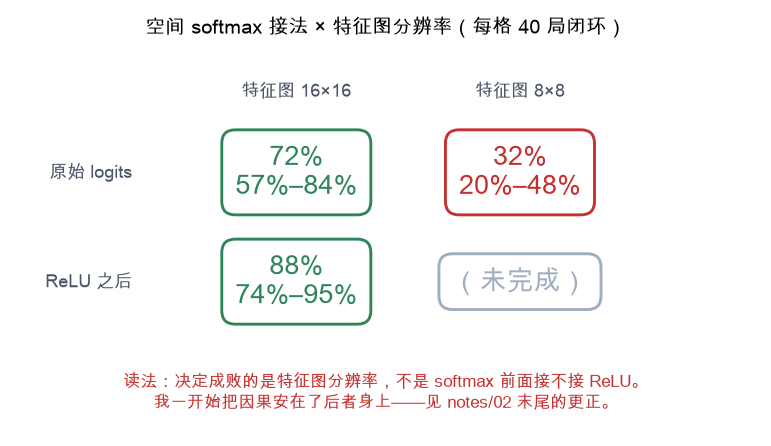
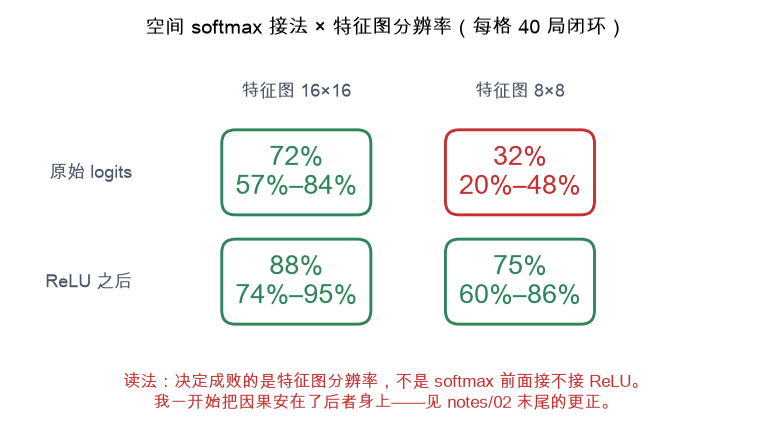
Second correction: sharper spatial softmax is worse; proxy metrics predicted nothing

Changed region(s): [[0.5603, 0.5247, 0.8093, 0.7287]]

diff --git a/notes/02-闭环失败诊断.md b/notes/02-闭环失败诊断.md
@@ -189,3 +189,59 @@ ReLU 之后特征均值只有 0.004，把这么小的数当 logits 做 256 类 s
   这个习惯是对的，只是量出来之后要接一个对照实验，而不是接一个结论。
 
 原来那节的文字保留在上面，不删——**记录当时怎么想的，比记录一个正确结论更有用。**
+
+## 2×2 跑完：第二次更正，而且更值得记
+
+四格全部跑完（其余配置完全相同，16000 步，40 局，同一套种子）：
+
+| | 特征图 16×16 | 特征图 8×8 |
+|---|---|---|
+| **原始 logits + 可学温度**（我的"修复版"） | 72.5% | **32.5%** |
+| **ReLU 之后**（第一版写法） | **87.5%** | **75.0%** |
+
+**我的"修复"不但没用，而且有害，在低分辨率下害得尤其厉害。**
+
+配上视觉健康指标看，规律非常清楚：
+
+| 配置 | softmax 最大概率 ÷ 均匀 | 关键点 std | 验证 L1 | 闭环成功率 |
+|---|---|---|---|---|
+| ReLU 后 + 16×16 | **1.2×** | 0.135 | 0.0949 | **87.5%** |
+| ReLU 后 + 8×8 | **1.4×** | 0.133 | 0.0946 | **75.0%** |
+| 原始 logits + 16×16 | （未记录） | — | 0.0925 | 72.5% |
+| 原始 logits + 8×8 | **59.4×** | 0.196 | 0.0974 | **32.5%** |
+
+**越尖锐，成功率越低。** 最尖的那个（59 倍于均匀）成功率最低。
+
+### 为什么"太尖"反而差
+
+空间 softmax 的输出是**期望坐标**。当分布接近 one-hot 时：
+
+1. 期望坐标塌缩到某个格子中心，**亚格子精度没了**——8×8 时一格对应桌面上 4–5 cm，
+   而抓取需要 1 cm 级精度。分布"糊"一点，期望值反而能在格子之间连续移动。
+2. softmax 饱和之后**梯度几乎为零**，这一层学不动。
+
+我当初的推理是"分布越尖 = 定位越准"，正好反了。
+经典实现里空间 softmax 的温度默认是 1.0（甚至更高），不是我设的 0.1——
+这个默认值不是随便定的。
+
+### 两个"健康指标"都不预测成功率
+
+我发明了 `max_p` 和 `kp_std` 两个代理指标来诊断视觉分支。结果：
+
+- `max_p` 和成功率**负相关**（越尖越差）；
+- `kp_std` 也不预测：raw8 的 kp_std（0.196）比 relu16（0.135）还高，成功率却低 55 个百分点；
+- 而 `val_l1` 四组全在 0.0925–0.0974 之间，**几乎没有区别**。
+
+**三个可以随时算出来的指标，没有一个能预测那个我真正关心的数。**
+
+### 这一整段的真正教训
+
+1. **代理指标不是目标指标。** 自己发明一个"看起来能反映健康度"的量，然后据此做决策，
+   是很容易的自我欺骗。代理指标唯一的正当用法是**提出假设**，
+   然后必须用目标指标（闭环成功率）做对照实验去检验。
+2. **一次只改一个变量。** 我违反了两次：第一次同时改三处导致 34%→74% 无法归因；
+   第二次凭"尖锐度"这个代理指标就断定因果。
+3. **默认值往往是有道理的。** 我把温度从 1.0 改成 0.1、把归一化和激活去掉，
+   都是"看起来更合理"的改动，实测全是负收益。
+
+原始的错误推理全部保留在上面几节，不删。
